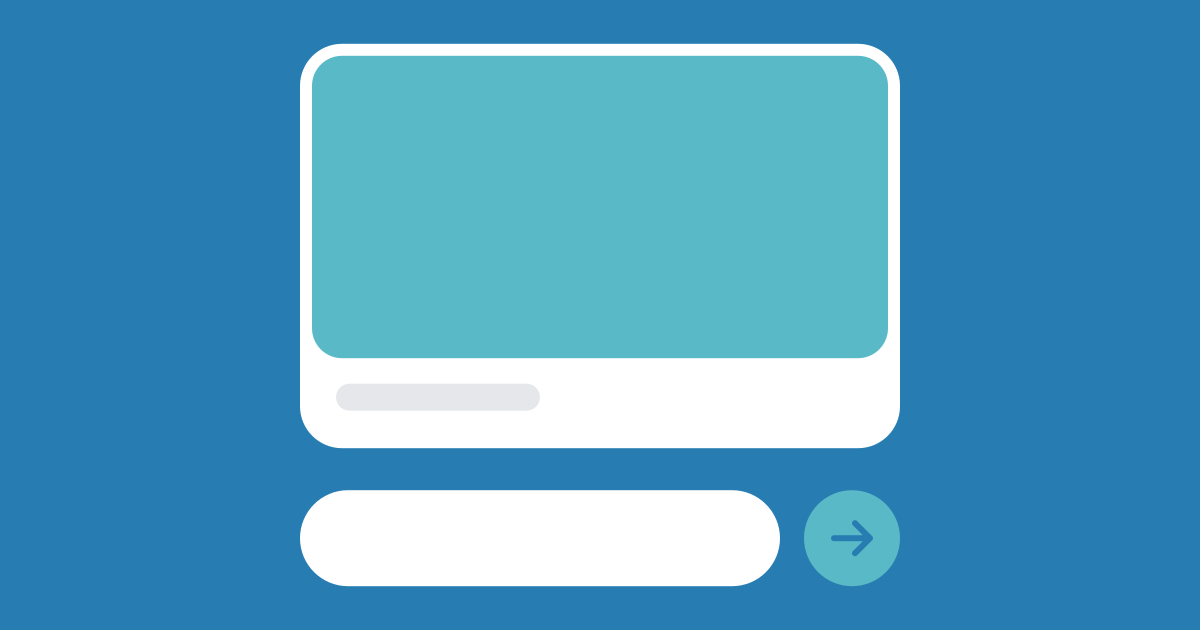
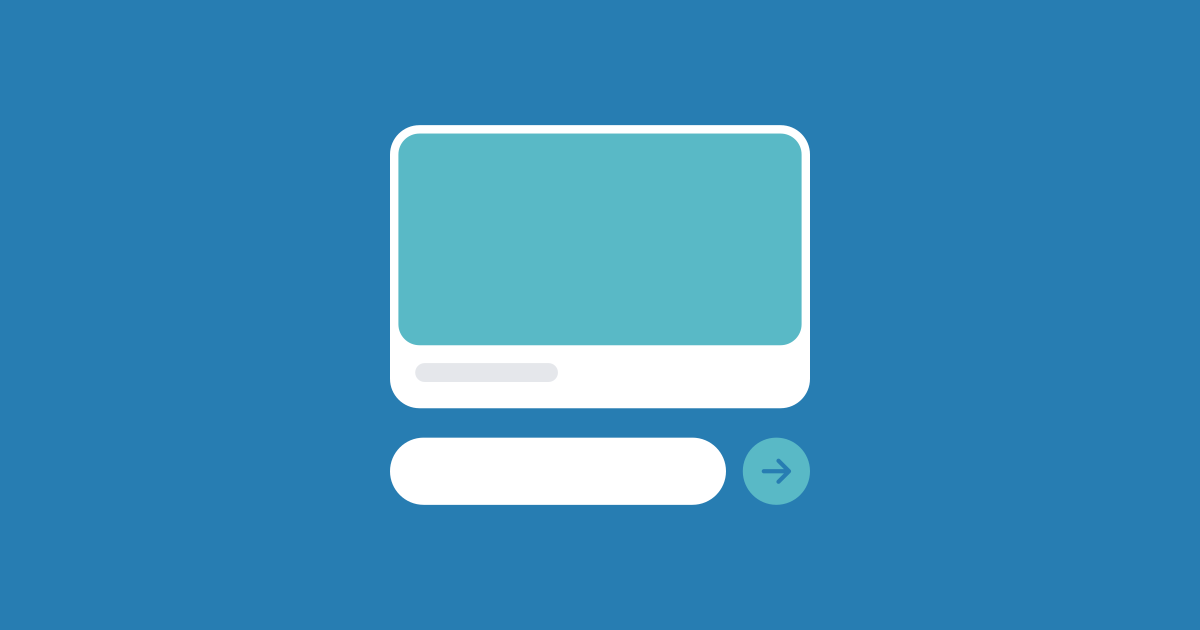
Preserve vertical spacing in the Just HEX share artwork

Changed region(s): [[0.2467, 0.0603, 0.7708, 0.9349]]

diff --git a/DESIGN.md b/DESIGN.md
@@ -264,7 +264,7 @@ Tailwind の既定値を使います：640px（`sm`）、768px（`md`）、1024p
 - 日本語のページで英語表記の要素（カテゴリ名、SPOTLIGHT、Just HEX など）は和訳しません。Just HEX（`/hex`、`/en/hex`）はアプリの部分がどちらの言語でも英語です（`lang="en"`）。アート寄りの作品として、文字の大きさなどの一部の規則を外しています。
 - Just HEXの初期色は新橋色（`#59B9C6`）です。「Discover」はトップでは入力色を、色の画面では表示色と共有URLをランダムな別の色に更新します。トップでは「Share」と並べ、ドックではシャッフルのアイコン（Tablerの`arrows-shuffle`）で表示します（読み上げの名前とツールチップは「Discover」）。ドックの「Back to Just HEX」はDiscoverを何度押してもトップへ戻ります。
 - AppsのJust HEX画像も新橋色（`#59B9C6`）を使い、背景は青（`#277DB2`）にします。トップのDiscover・Shareはボタン間4px、左右の内側余白は各8pxとし、高さ44pxを保ちます。
-- Just HEXのサービストップ（日英）のOGPは、AppsのJust HEX画像を流用し、上下の空いた背景だけを切り出して1200×630pxにします。`scripts/generate-just-hex-ogp.mjs`で公開用PNGを生成します。色ごとのURLは従来どおりその色だけの画像です。
+- Just HEXのサービストップ（日英）のOGPは、AppsのJust HEX画像を流用し、元画像の上下余白を保って1200×630pxに収めます。左右は背景と同じ青（`#277DB2`）で広げ、イラストは中央に置きます。`scripts/generate-just-hex-ogp.mjs`で公開用PNGを生成します。色ごとのURLは従来どおりその色だけの画像です。
 - トップのDiscoverでは色コードを即時更新し、矢印ボタンの色だけを200msのease-outで滑らかに変えます。色コードとシャッフルアイコンは動かしません。色の遷移はボタンの背景色だけに設定し、参照する変数には重ねて設定しません。ドックでは押したボタンから新しい色が400msで円形に広がり、広がり切ったらURLと共有先も更新します。ドックは色が広がるレイヤーより手前に置き、演出中も表示を保ちます。動きを減らす設定では演出を省き、すぐに切り替えます。
 - 色の画面は通常の文書フローで画面の高さを確保し、ドックだけを固定表示にします。透明な全画面固定要素を重ねず、ページの背景色をブラウザが参照できる構造にします。色の画面では`theme-color`も選択色に同期し、トップへ戻ると外します。
 - 英語のページのサイト内リンクは英語版へ向けます。日本語だけのページ（プライバシーポリシー）へのリンクは、英語のページでは「(Japanese)」と添え、`hreflang="ja"` を付けます。ページと違う言語のサイトへのリンク（「活動を応援する」の GitHub Sponsors と Amazon）も、注記と合わせてその言語の `hreflang` を付けます。
